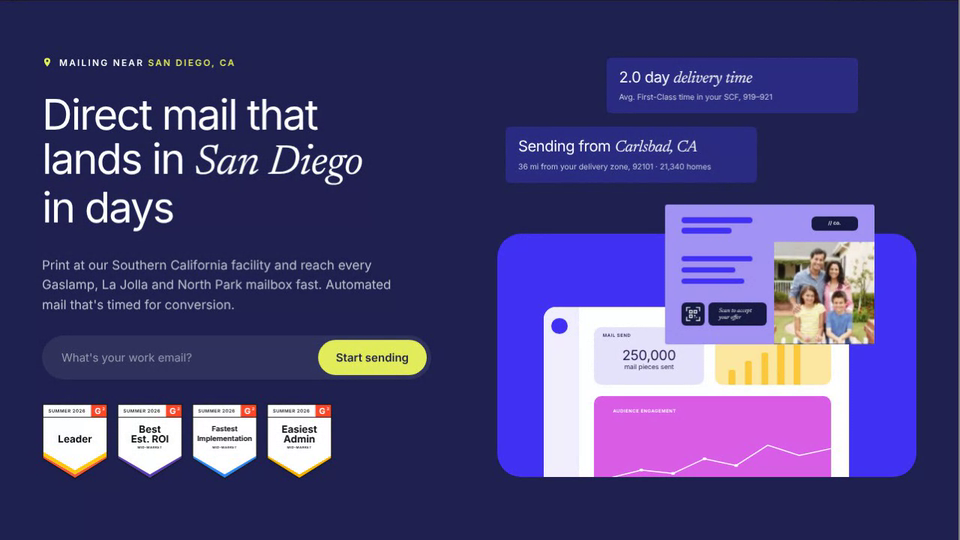
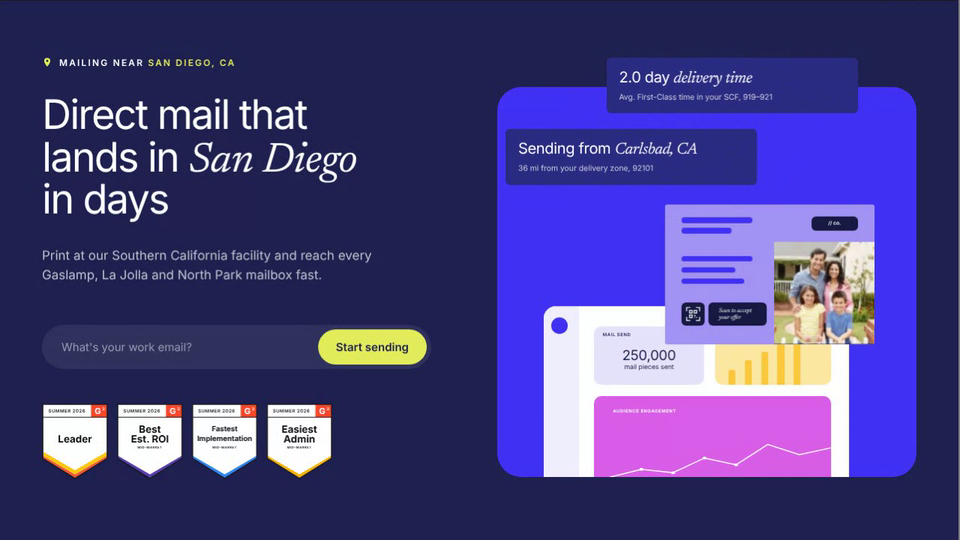
Location Hero: looping blurbs with a third, purple box up to the top blurb, 3 more cities, smaller title sans, badges lower
Claude-Session: https://claude.ai/code/session_01AHeBdxeACcd88pkrxSw1Hy

diff --git a/location-hero/index.html b/location-hero/index.html
@@ -23,8 +23,8 @@ nav.back span{color:#6e6e6e}nav.back b{font-weight:500;color:#fff;overflow:hidde
 .chip{display:inline-flex;align-items:center;gap:9px;font-size:12px;font-weight:600;letter-spacing:.18em;text-transform:uppercase}
 .chip svg{width:14px;height:14px;fill:var(--lime)}
 .chip em{font-style:normal;color:var(--lime)}
-h1{font-weight:400;font-size:clamp(34px,4.4vw,58px);line-height:1.04;letter-spacing:-2px;margin:30px 0 34px;white-space:nowrap}
-h1 i{font-family:var(--serif);font-style:italic;letter-spacing:-.01em}
+h1{font-weight:400;font-size:calc(clamp(34px,4.4vw,58px) - 2px);line-height:1.04;letter-spacing:-2px;margin:30px 0 34px;white-space:nowrap}
+h1 i{font-family:var(--serif);font-style:italic;letter-spacing:-.01em;font-size:clamp(34px,4.4vw,58px);line-height:0}
 .sw{display:inline-block;transition:opacity .35s,transform .35s,filter .35s}
 .sw.out{opacity:0;transform:translateY(10px);filter:blur(6px)}
 .sub{font-size:17px;line-height:1.55;color:rgba(255,255,255,.72);max-width:470px;min-height:78px}
@@ -33,19 +33,23 @@ h1 i{font-family:var(--serif);font-style:italic;letter-spacing:-.01em}
 .form input::placeholder{color:rgba(255,255,255,.5)}
 .form button{border:0;background:var(--lime);color:var(--ink);font:600 15px var(--sans);padding:14px 24px;border-radius:99px;cursor:pointer;white-space:nowrap}
 .form button:hover{filter:brightness(1.06)}
-.g2{display:flex;gap:12px;margin-top:32px}
+.g2{display:flex;gap:12px;margin-top:46px}
 .g2 svg{width:88px;height:auto;display:block}
 
 /* illustration */
 .stage{position:relative;aspect-ratio:1/1;width:100%;max-width:600px;justify-self:end;container-type:inline-size}
-.blurbs div.bl{position:absolute;width:60%;background:var(--card);border-radius:6px;padding:2.6cqw 3cqw;color:#fff;transition:opacity .35s,transform .35s,filter .35s}
-#b1{left:26%;top:0}#b2{left:2%;top:16.5%}
-.bl.out{opacity:0;transform:translateY(8px);filter:blur(5px)}
+.blurbs div.bl{position:absolute;width:60%;background:var(--card);border-radius:6px;padding:2.6cqw 3cqw;color:#fff;z-index:3;opacity:0;left:2%;top:26%;transform:scale(.8);transform-origin:50% 100%;transition:left .8s cubic-bezier(.34,1.3,.64,1),top .8s cubic-bezier(.34,1.3,.64,1),transform .6s cubic-bezier(.34,1.56,.64,1),opacity .45s}
+.blurbs .bl[data-s="1"]{left:2%;top:17%;opacity:1;transform:none}
+.blurbs .bl[data-s="0"]{left:26%;top:0;opacity:1;transform:none}
+.blurbs .bl[data-s="x"]{left:26%;top:-9%;opacity:0;transform:scale(.97);transition:left .8s,top .8s ease-in,transform .6s,opacity .45s .15s}
+.blurbs .bl[data-s="r"]{transition:none}
+.bi{transition:opacity .35s,transform .35s,filter .35s}
+.bi.out{opacity:0;transform:translateY(8px);filter:blur(5px)}
 .bl strong{display:block;font:400 3.6cqw/1.1 var(--sans);letter-spacing:-.02em}
 .bl strong i{font:italic 400 3.8cqw var(--serif)}
 .bl p{font:400 1.85cqw/1.4 var(--sans);color:rgba(255,255,255,.75);margin-top:1.2cqw}
-.box{position:absolute;left:0;right:0;top:42%;bottom:0;background:var(--purple);border-radius:32px;overflow:hidden}
-.plat{position:absolute;left:11%;top:30%;width:73%;height:92%;background:#fff;border-radius:16px 16px 0 0}
+.box{z-index:1;position:absolute;left:0;right:0;top:7%;bottom:0;background:var(--purple);border-radius:32px;overflow:hidden}
+.plat{position:absolute;left:11%;top:56.3%;width:73%;height:57.4%;background:#fff;border-radius:16px 16px 0 0}
 .side{position:absolute;left:0;top:0;bottom:0;width:11.5%;background:#f1effd;border-radius:16px 0 0 0}
 .side i{position:absolute;left:23%;top:5%;width:46%;aspect-ratio:1;background:var(--purple);border-radius:50%}
 .t{position:absolute;border-radius:10px}
@@ -57,7 +61,7 @@ h1 i{font-family:var(--serif);font-style:italic;letter-spacing:-.01em}
 .t2 i{position:absolute;bottom:0;width:6%;background:var(--yel2);border-radius:3px 3px 0 0}
 .t3{left:16.5%;top:40%;width:77.5%;height:60%;background:var(--pink)}
 .t3 svg{position:absolute;left:0;top:22%;width:100%;height:42%}
-.mail{position:absolute;left:40%;top:35%;width:50%;aspect-ratio:1.5;border-radius:3px;overflow:hidden}
+.mail{z-index:2;position:absolute;left:40%;top:35%;width:50%;aspect-ratio:1.5;border-radius:3px;overflow:hidden}
 .pc{position:absolute;inset:0;background:#a393f5}
 .el{position:absolute}
 .bar{background:var(--purple);border-radius:99px}
@@ -67,25 +71,26 @@ h1 i{font-family:var(--serif);font-style:italic;letter-spacing:-.01em}
 .scan{background:var(--deep);color:#fff;border-radius:6px;font:italic 400 1.4cqw/1.15 var(--serif);display:flex;align-items:center;padding:0 5%}
 .ph{object-fit:cover;border-radius:0}
 @media(max-width:900px){.hero{grid-template-columns:1fr;padding:24px 20px 28px}.stage{justify-self:center}.sub{min-height:0}h1{white-space:normal}}
-@media(prefers-reduced-motion:reduce){.sw,.bl{transition:none}}
+@media(prefers-reduced-motion:reduce){.sw,.bl,.bi{transition:none}}
 </style>
 </head>
 <body>
 <nav class="back" aria-label="Sandbox"><a href="../">Sandbox</a><span class="x">/</span><a class="x" href="../">Back to all projects</a><span>/</span><b>Location Hero</b>
-<div class="tog" role="group" aria-label="Preview location"><button class="on" data-i="0">San Diego</button><button data-i="1">Miami</button></div></nav>
+<div class="tog" id="tog" role="group" aria-label="Preview location"></div></nav>
 <main class="hero">
   <section>
     <div class="chip"><svg viewBox="0 0 24 24"><path d="M12 2a7 7 0 0 0-7 7c0 5.2 7 13 7 13s7-7.8 7-13a7 7 0 0 0-7-7zm0 9.5a2.5 2.5 0 1 1 0-5 2.5 2.5 0 0 1 0 5z"/></svg><span>Mailing near <em class="sw" id="city">San Diego, CA</em></span></div>
     <h1><span class="sw" id="h1">Direct mail that<br>lands in <i>San Diego</i><br>in days</span></h1>
-    <p class="sub sw" id="sub">Print at our Southern California facility and reach every Gaslamp, La Jolla and North Park mailbox fast. Automated mail that's timed for conversion.</p>
+    <p class="sub sw" id="sub">Print at our Southern California facility and reach every Gaslamp, La Jolla and North Park mailbox fast.</p>
     <form class="form" onsubmit="return false"><input type="email" placeholder="What's your work email?" aria-label="Work email"><button>Start sending</button></form>
     <div class="g2" id="g2" aria-label="G2 awards"></div>
   </section>
 
   <div class="stage" id="stage">
     <div class="blurbs">
-      <div class="bl" id="b1"><strong id="b1h"></strong><p id="b1p"></p></div>
-      <div class="bl" id="b2"><strong id="b2h"></strong><p id="b2p"></p></div>
+      <div class="bl" id="b1" data-s="h"><div class="bi"><strong id="b1h"></strong><p id="b1p"></p></div></div>
+      <div class="bl" id="b2" data-s="h"><div class="bi"><strong id="b2h"></strong><p id="b2p"></p></div></div>
+      <div class="bl" id="b3" data-s="h"><div class="bi"><strong id="b3h"></strong><p id="b3p"></p></div></div>
     </div>
     <div class="box"><div class="plat">
       <div class="side"><i></i></div>
@@ -108,12 +113,26 @@ h1 i{font-family:var(--serif);font-style:italic;letter-spacing:-.01em}
 </main>
 <script>
 const CITIES=[
- {city:'San Diego, CA',h:'Direct mail that<br>lands in <i>San Diego</i><br>in days',sub:"Print at our Southern California facility and reach every Gaslamp, La Jolla and North Park mailbox fast. Automated mail that's timed for conversion.",
-  b1:['USPS mailing data','2.0 day <i>delivery time</i>','Avg. First-Class time in your SCF, 919–921'],
-  b2:['Your print location','Sending from <i>Carlsbad, CA</i>','36 mi from your delivery zone, 92101 · 21,340 homes']},
- {city:'Miami, FL',h:'Direct mail that<br>lands in <i>Miami</i><br>in days',sub:"Print at our Florida facility and reach every Brickell, Wynwood and Coral Gables mailbox fast. Automated mail that's timed for conversion.",
-  b1:['USPS mailing data','2.3 day <i>delivery time</i>','Avg. First-Class time in your SCF, 331–332'],
-  b2:['Your print location','Sending from <i>Orlando, FL</i>','235 mi from your delivery zone, 33131 · 24,760 homes']}];
+ {city:'San Diego, CA',h:'Direct mail that<br>lands in <i>San Diego</i><br>in days',sub:"Print at our Southern California facility and reach every Gaslamp, La Jolla and North Park mailbox fast.",
+  b:[['2.0 day <i>delivery time</i>','Avg. First-Class time in your SCF, 919–921'],
+     ['Sending from <i>Carlsbad, CA</i>','36 mi from your delivery zone, 92101'],
+     ['<i>21,340</i> homes in your zone','Gaslamp, La Jolla and North Park, mapped to carrier routes']]},
+ {city:'Miami, FL',h:'Direct mail that<br>lands in <i>Miami</i><br>in days',sub:"Print at our Florida facility and reach every Brickell, Wynwood and Coral Gables mailbox fast.",
+  b:[['2.3 day <i>delivery time</i>','Avg. First-Class time in your SCF, 331–332'],
+     ['Sending from <i>Orlando, FL</i>','235 mi from your delivery zone, 33131'],
+     ['<i>24,760</i> homes in your zone','Brickell, Wynwood and Coral Gables, mapped to carrier routes']]},
+ {city:'Nashville, TN',h:'Direct mail that<br>lands in <i>Nashville</i><br>in days',sub:"Print at our Tennessee facility and reach every East Nashville, Gulch and Germantown mailbox fast.",
+  b:[['2.1 day <i>delivery time</i>','Avg. First-Class time in your SCF, 370–372'],
+     ['Sending from <i>Memphis, TN</i>','210 mi from your delivery zone, 37203'],
+     ['<i>19,880</i> homes in your zone','East Nashville, Gulch and Germantown, mapped to carrier routes']]},
+ {city:'Columbus, OH',h:'Direct mail that<br>lands in <i>Columbus</i><br>in days',sub:"Print at our Ohio facility and reach every Short North, German Village and Clintonville mailbox fast.",
+  b:[['2.0 day <i>delivery time</i>','Avg. First-Class time in your SCF, 430–432'],
+     ['Sending from <i>Dayton, OH</i>','72 mi from your delivery zone, 43215'],
+     ['<i>22,410</i> homes in your zone','Short North, German Village and Clintonville, mapped to carrier routes']]},
+ {city:'Kansas City, MO',h:'Direct mail that<br>lands in <i>Kansas City</i><br>in days',sub:"Print at our Midwest facility and reach every Westport, Crossroads and Brookside mailbox fast.",
+  b:[['2.4 day <i>delivery time</i>','Avg. First-Class time in your SCF, 640–641'],
+     ['Sending from <i>Wichita, KS</i>','200 mi from your delivery zone, 64105'],
+     ['<i>17,950</i> homes in your zone','Westport, Crossroads and Brookside, mapped to carrier routes']]}];
 const $=id=>document.getElementById(id);
 // G2 style badges
 const BADGES=[
@@ -127,18 +146,29 @@ $('g2').innerHTML=BADGES.map((b,n)=>{
  const txt=b.l.map((t,i)=>`<text x="41" y="${y0+i*(b.l.length>1?12:0)+fs[i]*.36}" text-anchor="middle" font-size="${fs[i]}" font-weight="700" fill="#111">${t}</text>`).join('');
  const bands=b.bands.map((c,i)=>{const t=5*(i+1),t0=5*i;return `<path d="M-2 ${68-t0}L41 ${93-t0}L84 ${68-t0}V${68-t}L41 ${93-t}-2 ${68-t}Z" fill="${c}"/>`}).join('');
  return `<svg viewBox="0 0 82 94" role="img" aria-label="G2 ${b.l.join(' ')}"><defs><clipPath id="sh${n}"><path d="${SH}"/></clipPath></defs><path d="${SH}" fill="#fff"/><g clip-path="url(#sh${n})">${bands}<rect x="61" y="1" width="20" height="16" fill="#ff492c"/><path d="M0 17H82" stroke="#1a1a1a" stroke-width="1"/></g><g font-family="Inter,Arial,sans-serif"><text x="31" y="11.2" text-anchor="middle" font-size="5.6" font-weight="600" letter-spacing=".5" fill="#1a1a1a">SUMMER 2026</text>${txt}${b.mm?`<text x="41" y="56" text-anchor="middle" font-size="4" font-weight="600" letter-spacing=".4" fill="#1a1a1a">MID-MARKET</text>`:''}<text x="69.5" y="13" text-anchor="middle" font-size="10.5" font-weight="700" fill="#fff">G</text><text x="76.5" y="8" text-anchor="middle" font-size="5" font-weight="700" fill="#fff">2</text></g><path d="${SH}" fill="none" stroke="#1a1a1a" stroke-width="1.3" stroke-linejoin="round"/></svg>`}).join('');
-const sw=['city','h1','sub','b1','b2'];
+const sw=['city','h1','sub'];
+const BL=[1,2,3].map(n=>$('b'+n));
+const bl={timer:null,st:null,
+ setSlots(a,b,c){[a,b,c].forEach((v,i)=>{const e=BL[i];e.dataset.s=v})},
+ reset(e){e.dataset.s='r';void e.offsetWidth;e.dataset.s='h';void e.offsetWidth},
+ instant(){BL.forEach(e=>{e.dataset.s='r'});void BL[0].offsetWidth;this.order=[0,1,2];BL[0].dataset.s='0';BL[1].dataset.s='1';BL[2].dataset.s='h'},
+ step(){const [top,low,nxt]=this.order;BL[top].dataset.s='x';BL[low].dataset.s='0';this.reset(BL[nxt]);BL[nxt].dataset.s='1';
+  const gone=top;this.order=[low,nxt,gone];setTimeout(()=>{if(this.order[2]===gone)this.reset(BL[gone])},1000)},
+ intro(){this.order=[0,1,2];BL.forEach(e=>{e.dataset.s='h'});setTimeout(()=>{BL[0].dataset.s='0'},150);setTimeout(()=>{BL[1].dataset.s='1'},650)},
+ start(first){this.stop();this.st=setTimeout(()=>{this.step();this.timer=setInterval(()=>this.step(),2100)},first)},
+ stop(){clearTimeout(this.st);clearInterval(this.timer)}};
 const lp={i:0,timer:null,
  apply(i){const c=CITIES[i];$('city').textContent=c.city;$('h1').innerHTML=c.h;$('sub').textContent=c.sub;
-  [['b1',c.b1],['b2',c.b2]].forEach(([k,v])=>{$(k+'h').innerHTML=v[1];$(k+'p').textContent=v[2]});
+  c.b.forEach((v,k)=>{$('b'+(k+1)+'h').innerHTML=v[0];$('b'+(k+1)+'p').textContent=v[1]});
   document.querySelectorAll('.tog button').forEach((b,j)=>b.classList.toggle('on',j===i));},
- set(i){if(i===this.i)return;this.i=i;sw.forEach(k=>$(k).classList.add('out'));
-  setTimeout(()=>{this.apply(i);sw.forEach(k=>$(k).classList.remove('out'))},350);},
+ set(i){if(i===this.i)return;this.i=i;const els=[...sw.map($),...document.querySelectorAll('.bi')];els.forEach(e=>e.classList.add('out'));
+  setTimeout(()=>{this.apply(i);els.forEach(e=>e.classList.remove('out'))},350);},
  stop(){clearInterval(this.timer);this.timer=null},
- auto(){this.stop();this.timer=setInterval(()=>this.set(1-this.i),3400)}};
+ auto(){this.stop();this.timer=setInterval(()=>this.set((this.i+1)%CITIES.length),6300)}};
+$('tog').innerHTML=CITIES.map((c,i)=>`<button data-i="${i}">${c.city.split(',')[0]}</button>`).join('');
 document.querySelectorAll('.tog button').forEach(b=>b.onclick=()=>{lp.stop();lp.set(+b.dataset.i)});
 lp.apply(0);
-if(!new URLSearchParams(location.search).has('hold'))lp.auto();
+if(new URLSearchParams(location.search).has('hold')){bl.instant()}else{bl.intro();bl.start(2400);lp.auto()}
 </script>
 </body>
 </html>

diff --git a/tools/record-clips.js b/tools/record-clips.js
@@ -122,11 +122,12 @@ const APPS = {
       await sleep(5600);
     } },
   'location-hero': { vp: [1280, 769], crop: [0, 49, 1280, 720],
-    // hold on San Francisco, then switch the hero copy, blurbs and mailpiece to Miami
-    ready: 600,
+    // park on the first two blurbs, let them drift up and a third pop in, and switch the copy to Miami halfway
+    setup: async (p) => { await p.evaluate(() => { lp.stop(); lp.set(0); bl.stop(); bl.instant(); }); },
+    ready: 1200,
     run: async (p) => {
       const t0 = Date.now();
-      await p.evaluate(() => { lp.stop(); lp.set(0); });
+      await p.evaluate(() => { bl.instant(); bl.start(1500); });
       await at(t0, 3200, () => p.evaluate(() => lp.set(1)));
       await sleep(5600);
     } },
